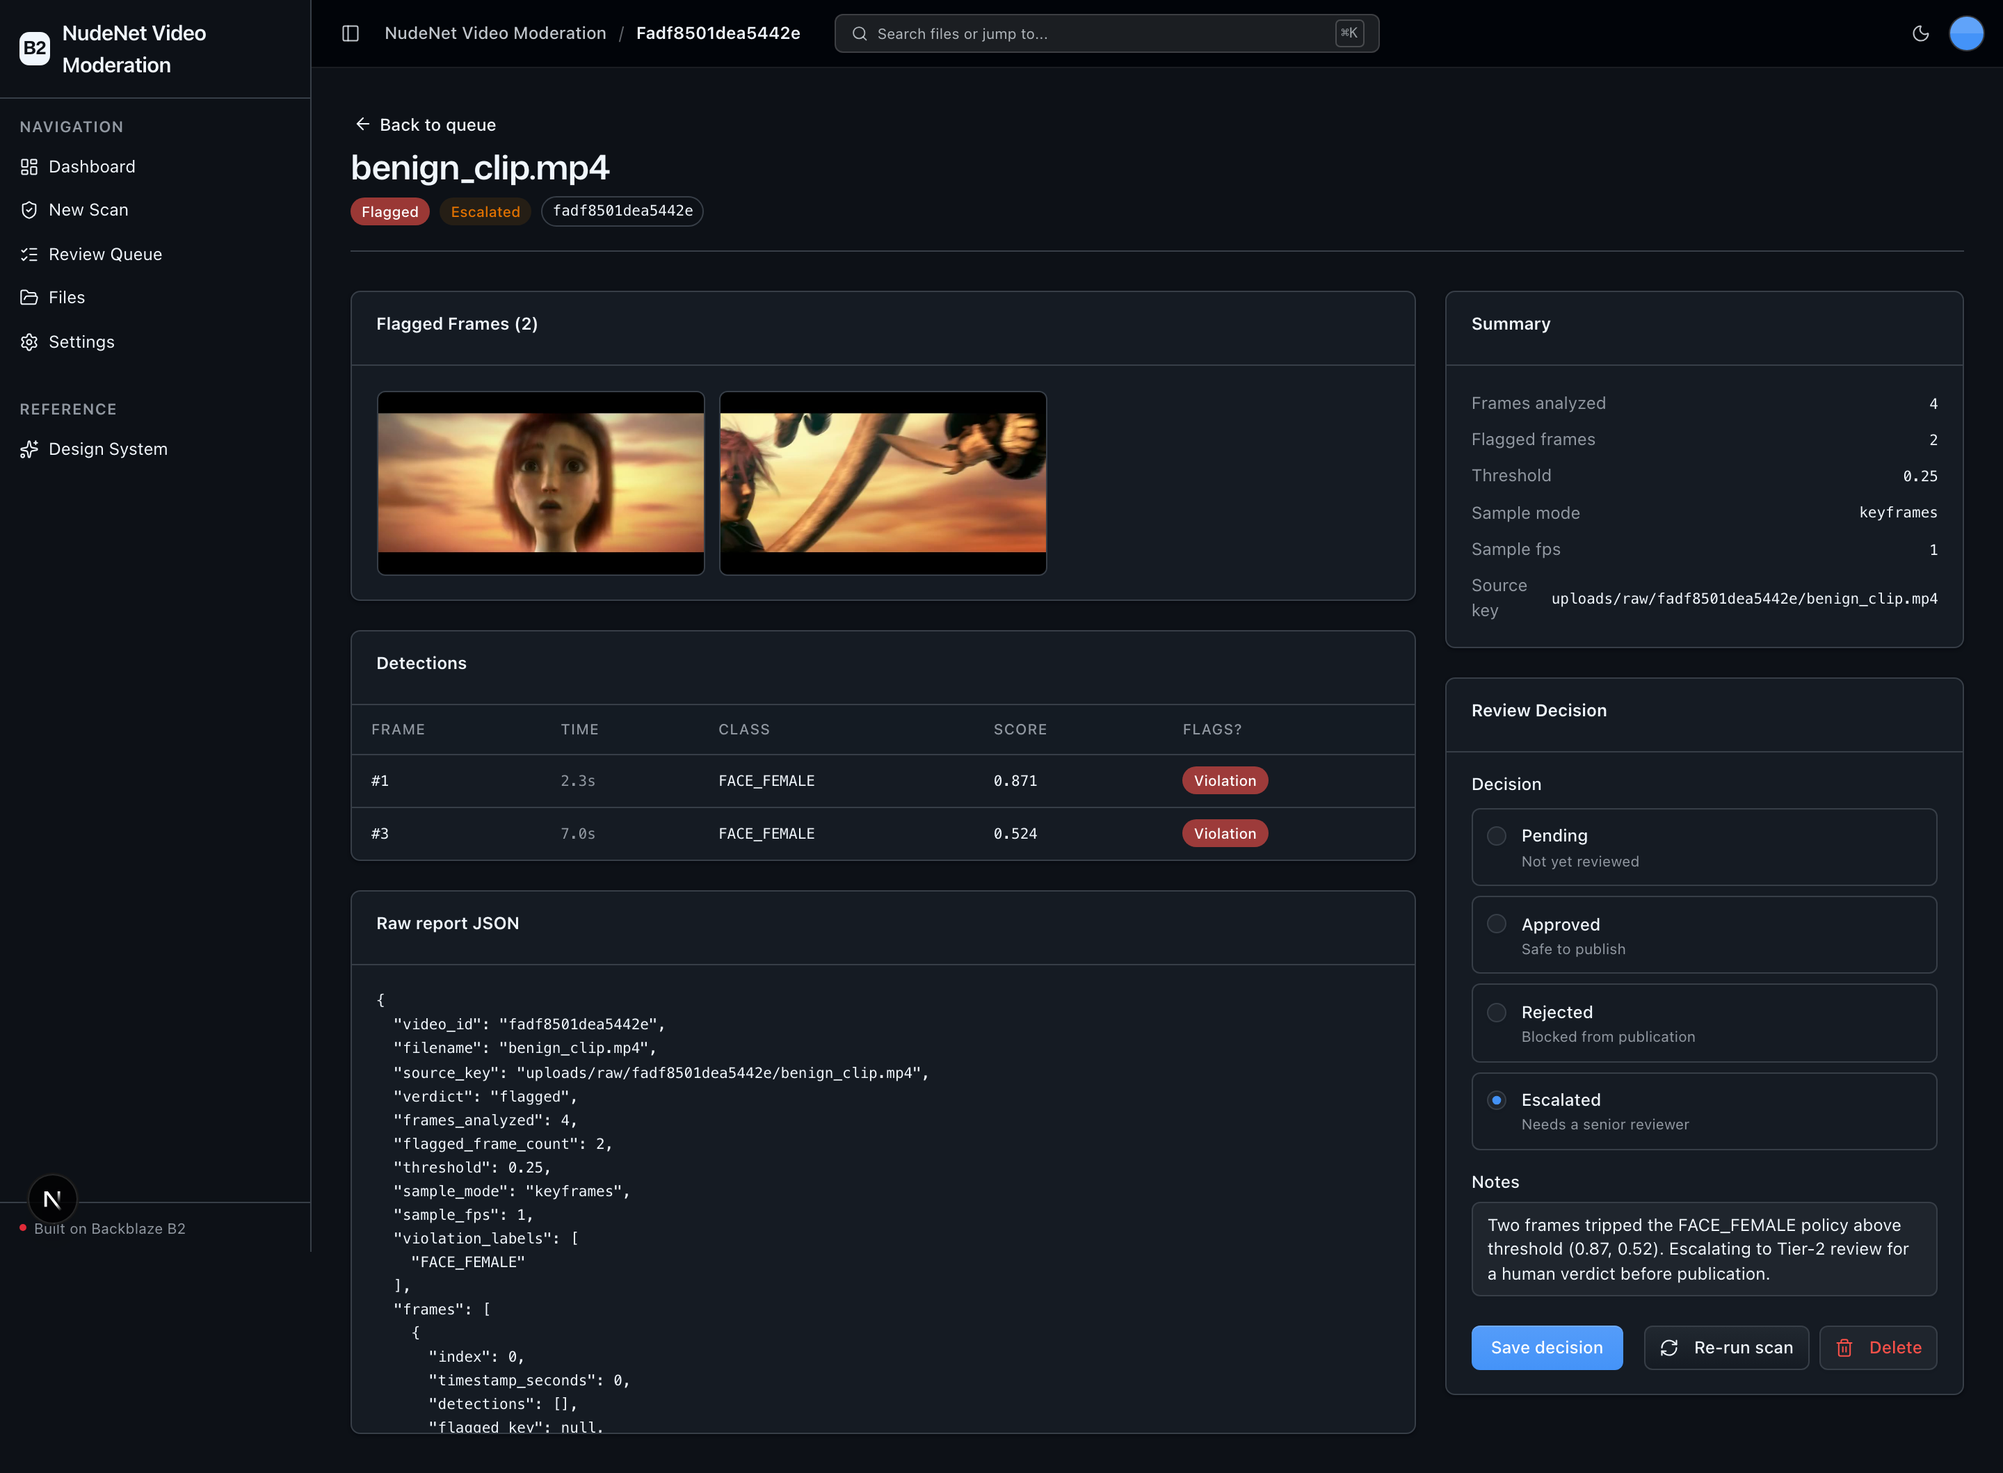
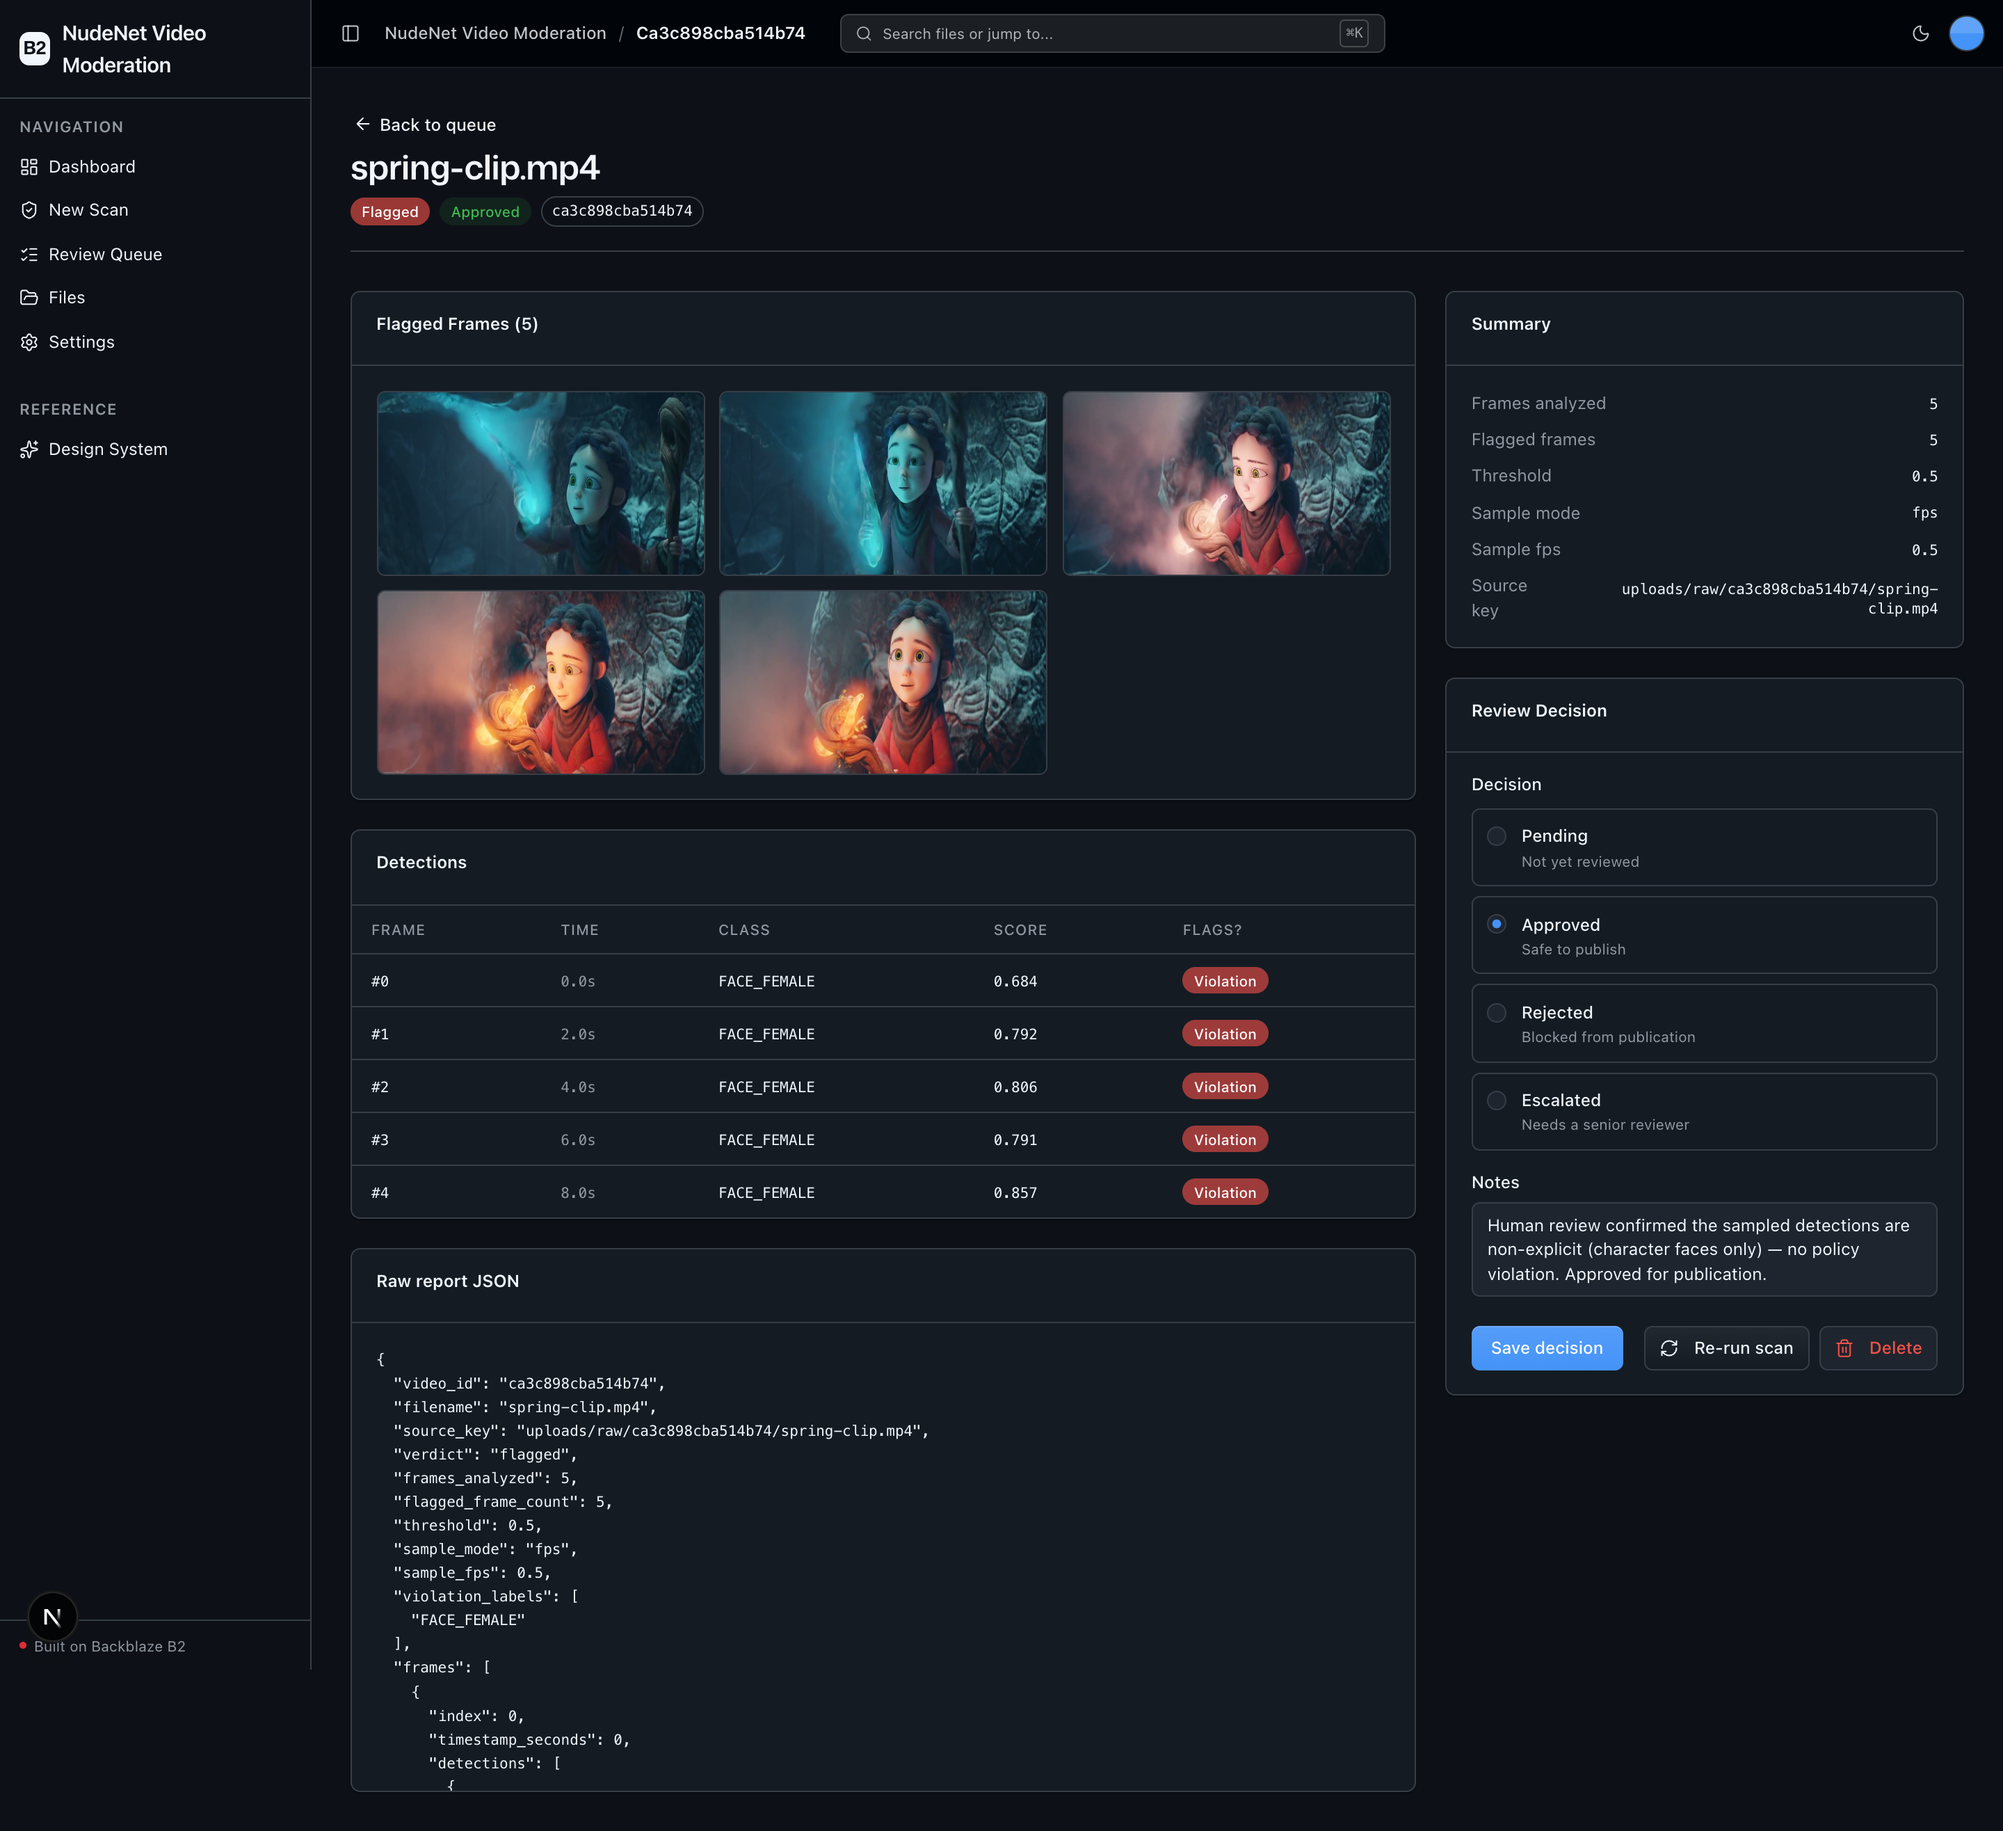
docs: use Blender's Spring as the flagged-report demo clip
Swap the report-detail demo from Sprite Fright to Spring (Blender
Studio, CC BY 4.0) — a female-lead animation whose faces reliably
trigger NudeNet's FACE_FEMALE class (5/5 sampled frames, 0.68-0.86 at
0.5fps / threshold 0.5) for a cleaner flagged-frame grid. Regenerate
docs/images/report-detail.png (dark, 2x) and add the clip attribution.

diff --git a/README.md b/README.md
@@ -32,6 +32,8 @@ human-in-the-loop decision (approve / reject / escalate).
 
 ![Per-video report detail with flagged frames, detection table, and review decision](docs/images/report-detail.png)
 
+> _This example run sets the per-scan `violation_labels` override to `FACE_FEMALE` so the flagged → review → decision workflow is populated with safe footage — no NSFW media. Demo clip: [Spring](https://studio.blender.org/films/spring/) © Blender Studio, [CC BY 4.0](https://creativecommons.org/licenses/by/4.0/)._
+
 ## Why B2
 
 High-velocity UGC ingest multiplies stored objects: every raw video plus its
